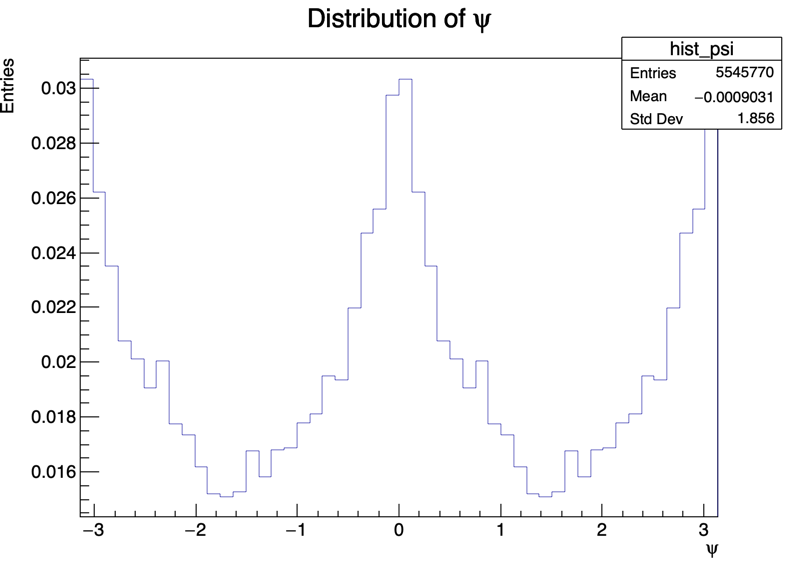
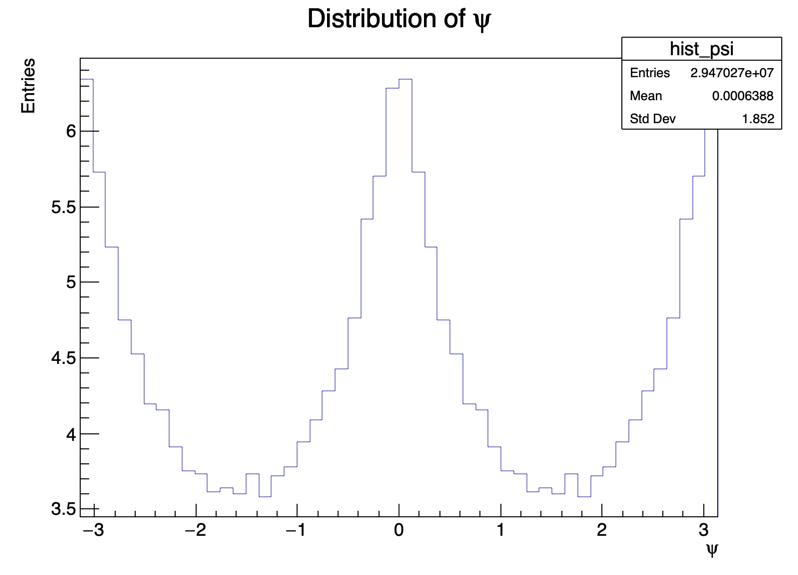
v0.2
Added readme
Finished perm.py

diff --git a/python/perm.py b/python/perm.py
@@ -20,6 +20,12 @@ def vec_from_pt_eta_phi(pt, eta, phi):
     pz = pt*np.sinh(eta)
     return np.array([px, py, pz], dtype=float)
 
+def angle_between(p1,p2):
+    n1 = np.linalg.norm(p1)
+    n2 = np.linalg.norm(p2)
+    if n1 == 0 or n2 == 0:
+        return None
+    return np.arccos(np.clip(np.dot(p1, p2) / (n1 * n2), -1.0, 1.0))
 
 def plane_angle_signed(p1, p2, p3):
     n1 = np.cross(p1, p2)
@@ -31,7 +37,7 @@ def plane_angle_signed(p1, p2, p3):
     cosang = np.clip(np.dot(n1, n2) / (n1_norm * n2_norm), -1.0, 1.0)
     ang = np.arccos(cosang)
     sign = np.sign(np.dot(np.cross(n1, n2), p1 + p2 + p3))
-    return sign * ang
+    return ang * sign
 
 
 file_path = "root/out_94C50CE8-43B0-AF4D-A8AE-BE0C7EC09B80.root"
@@ -40,33 +46,43 @@ file = ROOT.TFile.Open(file_path)
 tree = file.Get("jetTree")
 
 n_entries = tree.GetEntries()
+
+local_total = (n_entries - rank + size - 1) // size if n_entries > rank else 0
+print(f"Rank {rank} will process {local_total} entries.")
+comm.Barrier()
+
 if rank == 0:
     print(f"Number of entries in the tree: {n_entries}")
     print(f"Starting processing...")
 
 comm.Barrier()
 
-var_psi = []
-weights = []
 start_time = time.time()
 entries_processed = 0
 
+hist = ROOT.TH1F("hist_psi", "Distribution of #psi;#psi;Entries", 50, -np.pi, np.pi)
+hist.Sumw2()
+histS = ROOT.TH1F("hist_thetaS", "Distribution of ThetaS", 50, 0, np.pi)
+histL = ROOT.TH1F("hist_thetaL", "Distribution of ThetaL", 50, 0, np.pi)
+histL12 = ROOT.TH1F("hist_thetaL12", "Distribution of ThetaL12", 50, 0, np.pi)
+
 for i in range(rank, n_entries, size):
-    if entries_processed % 100 == 0 and entries_processed > 0:
-        break
-        print(f"Processing entry {i}/{n_entries}, Time elapsed: {round((time.time()-start_time)/60, 2)} minutes")
+    #if entries_processed % 10 == 0 and entries_processed > 0:
+    #    break
     tree.GetEntry(i)
+
     for jet_i in range(len(tree.jet_pt)):
 
         jet_pt = tree.jet_pt[jet_i]
-        if jet_pt < 200:
+        b_score = tree.jet_btag[jet_i]
+        if jet_pt < 200: #or b_score < 0.8:
             continue
 
         if len(tree.const_mass[jet_i]) < 3:
             continue
-        idx_triples = list(permutations(range(len(tree.const_mass[jet_i])), 3))
         
-        for perm in idx_triples:
+        N = len(tree.const_pt[jet_i]) 
+        for perm in permutations(range(N), 3):
             pt1 = tree.const_pt[jet_i][perm[0]]
             pt2 = tree.const_pt[jet_i][perm[1]]
             pt3 = tree.const_pt[jet_i][perm[2]]
@@ -79,34 +95,79 @@ for i in range(rank, n_entries, size):
             eta2 = tree.const_eta[jet_i][perm[1]]
             eta3 = tree.const_eta[jet_i][perm[2]]
 
-            mass1 = tree.const_mass[jet_i][perm[0]]
-            mass2 = tree.const_mass[jet_i][perm[1]]
-            mass3 = tree.const_mass[jet_i][perm[2]]
-
             p1 = vec_from_pt_eta_phi(pt1, eta1, phi1)
             p2 = vec_from_pt_eta_phi(pt2, eta2, phi2)
             p3 = vec_from_pt_eta_phi(pt3, eta3, phi3)
+
+            
+            # Apply angular cuts
+            thetaS = angle_between(p1, p2)
+            thetaL = angle_between(p2, p3)
+            thetaL12 = angle_between(p1 + p2, p3)
+
+            '''
+            if thetaS is None or thetaL is None:
+                continue
+            if not (0.01 < thetaS < 0.1):
+                continue
+            if not (np.sqrt(0.1) < thetaL < 1):
+                continue
+            '''
 
             dpsi = plane_angle_signed(p1, p2, p3)
             if dpsi == float('inf'):
                 print("Warning: Zero vector encountered in plane_angle_signed calculation.")
                 continue
-            w = 8*pt1*pt2*pt3 / (jet_pt**3)
-            var_psi.append(dpsi)
-            weights.append(w)
+            w = pt1*pt2*pt3 / (jet_pt**3) #*8
+            hist.Fill(dpsi, w)
+            histS.Fill(thetaS)
+            histL.Fill(thetaL)
+            histL12.Fill(thetaL12)
 
     entries_processed += 1
 
-
-hist = ROOT.TH1F("hist_psi", "Distribution of #psi;#psi;Entries", 50, -np.pi, np.pi)
-hist.Sumw2()
-
-for i in range(len(var_psi)):
-    hist.Fill(var_psi[i], weights[i])
-
-hist.Scale(1./hist.Integral())
-canvas = ROOT.TCanvas("canvas", "Canvas for #psi", 800, 600)
+canvas = ROOT.TCanvas("canvas", "Canvas", 800, 600)
+#hist.Scale(1.0 / hist.Integral())
 hist.Draw("HIST")
 canvas.SaveAs(f"imgs/psi_distribution_rank_{rank}.png")
-print(f"Rank {rank} finished processing. Total time: {round((time.time()-start_time)/60, 2)} minutes")
+
 comm.Barrier()
+
+# Send histograms to root process
+if rank != 0:
+    comm.send(hist, dest=0, tag=77)
+    comm.send(histS, dest=0, tag=78)
+    comm.send(histL, dest=0, tag=79)
+    comm.send(histL12, dest=0, tag=80)
+
+if rank == 0:
+    final_hist = hist.Clone()
+    final_histS = histS.Clone()
+    final_histL = histL.Clone()
+    final_histL12 = histL12.Clone()
+
+    for other_rank in range(1, size):
+        temp_hist = comm.recv(source=other_rank, tag=77)
+        temp_histS = comm.recv(source=other_rank, tag=78)
+        temp_histL = comm.recv(source=other_rank, tag=79)
+        temp_histL12 = comm.recv(source=other_rank, tag=80)
+        final_hist.Add(temp_hist)
+        final_histS.Add(temp_histS)
+        final_histL.Add(temp_histL)
+        final_histL12.Add(temp_histL12)
+
+    # Normalize
+    final_hist.Scale(1.0 / final_hist.Integral())
+    final_hist.Draw("HIST")
+    canvas.SaveAs("imgs/psi_distribution.png")
+
+    final_histS.Draw("HIST")
+    canvas.SaveAs("imgs/thetaS_distribution.png")
+
+    final_histL.Draw("HIST")
+    canvas.SaveAs("imgs/thetaL_distribution.png")
+
+    final_histL12.Draw("HIST")
+    canvas.SaveAs("imgs/thetaL12_distribution.png")
+
+    print(f"Processing complete. Total time: {round((time.time()-start_time)/60, 2)} minutes")

diff --git a/README.md b/README.md
@@ -1,2 +1,65 @@
-# pic2
- 
+This repository contains code to read ROOT trees, process jet constituents, compute angular observables, and generate Lund plane coordinates and plots. It includes Python scripts for data preparation and analysis, and a C++ program for detailed Lund-plane declustering using FastJet.
+
+## Python scripts
+
+- [python/perm.py](/Users/alexmendonca/Desktop/pic2/python/perm.py)
+  - MPI-parallel ROOT analysis over jets and their constituents.
+  - Reads `jetTree` from a ROOT file, iterates entries distributed by MPI rank, filters jets (e.g., `jet_pt < 200`), and computes:
+    - 3D momentum vectors from pt/eta/phi via [`vec_from_pt_eta_phi`](/Users/alexmendonca/Desktop/pic2/python/perm.py)
+    - Pairwise angles via [`angle_between`](/Users/alexmendonca/Desktop/pic2/python/perm.py)
+    - Signed plane angle between three vectors via [`plane_angle_signed`](/Users/alexmendonca/Desktop/pic2/python/perm.py)
+  - Fills ROOT histograms (`hist_psi`, `hist_thetaS`, `hist_thetaL`, `hist_thetaL12`) and saves plots per rank.
+  - Intended for scanning 3-constituent permutations per jet and accumulating weighted distributions.
+
+- [python/jets_cont.py](/Users/alexmendonca/Desktop/pic2/python/jets_cont.py)
+  - Builds a ROOT TTree of jets and their constituents from CMS EDM events.
+  - For each event:
+    - Extracts PF jets and AK8 jets, saves jet-level features (pt, eta, phi, mass, b-tag).
+    - Iterates jet constituents to store per-jet vectors: `const_pt`, `const_eta`, `const_phi`, `const_mass`, `const_pdgId`.
+  - Provides progress prints per rank, supports limiting events with `maxEvents`.
+
+- [python/run.py](/Users/alexmendonca/Desktop/pic2/python/run.py)
+  - Likely a runner/entry-point to orchestrate analyses (e.g., invoking perm or plotting scripts). If used, check for command-line argument parsing and calls into other modules.
+
+- [python/clear_root.py](/Users/alexmendonca/Desktop/pic2/python/clear_root.py)
+  - Utility to clean or reset ROOT outputs (e.g., delete branches or clear files). Use to maintain a clean workspace between runs.
+
+- [python/teste.py](/Users/alexmendonca/Desktop/pic2/python/teste.py)
+  - Scratch/testing script. Likely used to prototype reading ROOT files, quick calculations, or verifying functions.
+
+- [python/declustering.ipynb](/Users/alexmendonca/Desktop/pic2/python/declustering.ipynb)
+  - Jupyter notebook exploring declustering, possibly mirroring the C++ Lund-plane workflow in Python for sanity checks or visualization.
+
+- [python/plot_lund.ipynb](/Users/alexmendonca/Desktop/pic2/python/plot_lund.ipynb)
+  - Jupyter notebook for plotting Lund-plane outputs saved by the C++ program. Expect histograms, scatter plots of ln(1/Δ) vs ln(k_t), z, ψ distributions.
+
+- [python/name.ipynb](/Users/alexmendonca/Desktop/pic2/python/name.ipynb)
+  - Notebook placeholder; likely experiments with naming conventions or small data checks.
+
+## C++ program
+
+- [main/lund_plane.cpp](/Users/alexmendonca/Desktop/pic2/main/lund_plane.cpp)
+  - Reads a ROOT TTree of jets and their constituents.
+  - Uses FastJet (Cambridge/Aachen) and contrib tools (SoftDrop, Lund declustering) to compute:
+    - Primary Lund coordinates ln(1/Δ) and ln(k_t) for each splitting.
+    - Secondary Lund plane quantities via `SecondaryLund_mMDT`.
+    - SoftDrop primary and secondary planes (β, zcut, R0 parameters configurable in code).
+  - Computes and stores per-splitting variables (mass, z, κ, ψ) via helper function `dic_var`.
+  - Fills multiple branches:
+    - Primary: `lund_coords_x`, `lund_coords_y`, `lund_delta`, `lund_kt`, `lund_z`, `lund_psi`, `lund_kappa`, `lund_mass`
+    - Secondary: `lund_coords_secondary_x`, `lund_coords_secondary_y`, `lund_delta_secondary`, `lund_kt_secondary`, `lund_z_secondary`, `lund_psi_secondary`, `lund_kappa_secondary`, `lund_mass_secondary`
+    - SoftDrop primary: `lund_coords_x_sd`, `lund_coords_y_sd`, `lund_delta_sd`, `lund_kt_sd`, `lund_z_sd`, `lund_psi_sd`, `lund_kappa_sd`, `lund_mass_sd`
+    - SoftDrop secondary: `lund_coords_x_sd_secondary`, `lund_coords_y_sd_secondary`, `lund_delta_sd_secondary`, `lund_kt_sd_secondary`, `lund_z_sd_secondary`, `lund_psi_sd_secondary`, `lund_kappa_sd_secondary`, `lund_mass_sd_secondary`
+    - Additional grouped outputs: hard/soft/preferential split tracks (`lund_hard_*`, `lund_soft_*`, `lund_pref_*`)
+  - Prints periodic progress (every 1000 events).
+  - Outputs vectors per event and fills branches so they can be saved to a ROOT file for downstream analysis.
+
+## Notes
+
+- Python scripts assume a ROOT file with a `jetTree` containing jet-level vectors and nested constituent vectors (as created by `jets_cont.py`).
+- MPI support:
+  - [`perm.py`](/Users/alexmendonca/Desktop/pic2/python/perm.py) distributes work across ranks using `range(rank, n_entries, size)`.
+  - When running under MPI (Open MPI), prefer the VS Code Terminal and unbuffered Python (`python -u`) for live progress output.
+- Angles:
+  - `np.arccos` returns radians in [0, π].
+  - Signed plane angle in [`plane_angle_signed`](/Users/alexmendonca/Desktop/pic2/python/perm.py) is computed by the angle between planes formed by (p1, p2) and (p1+p2, p3), with sign from the triple product.
